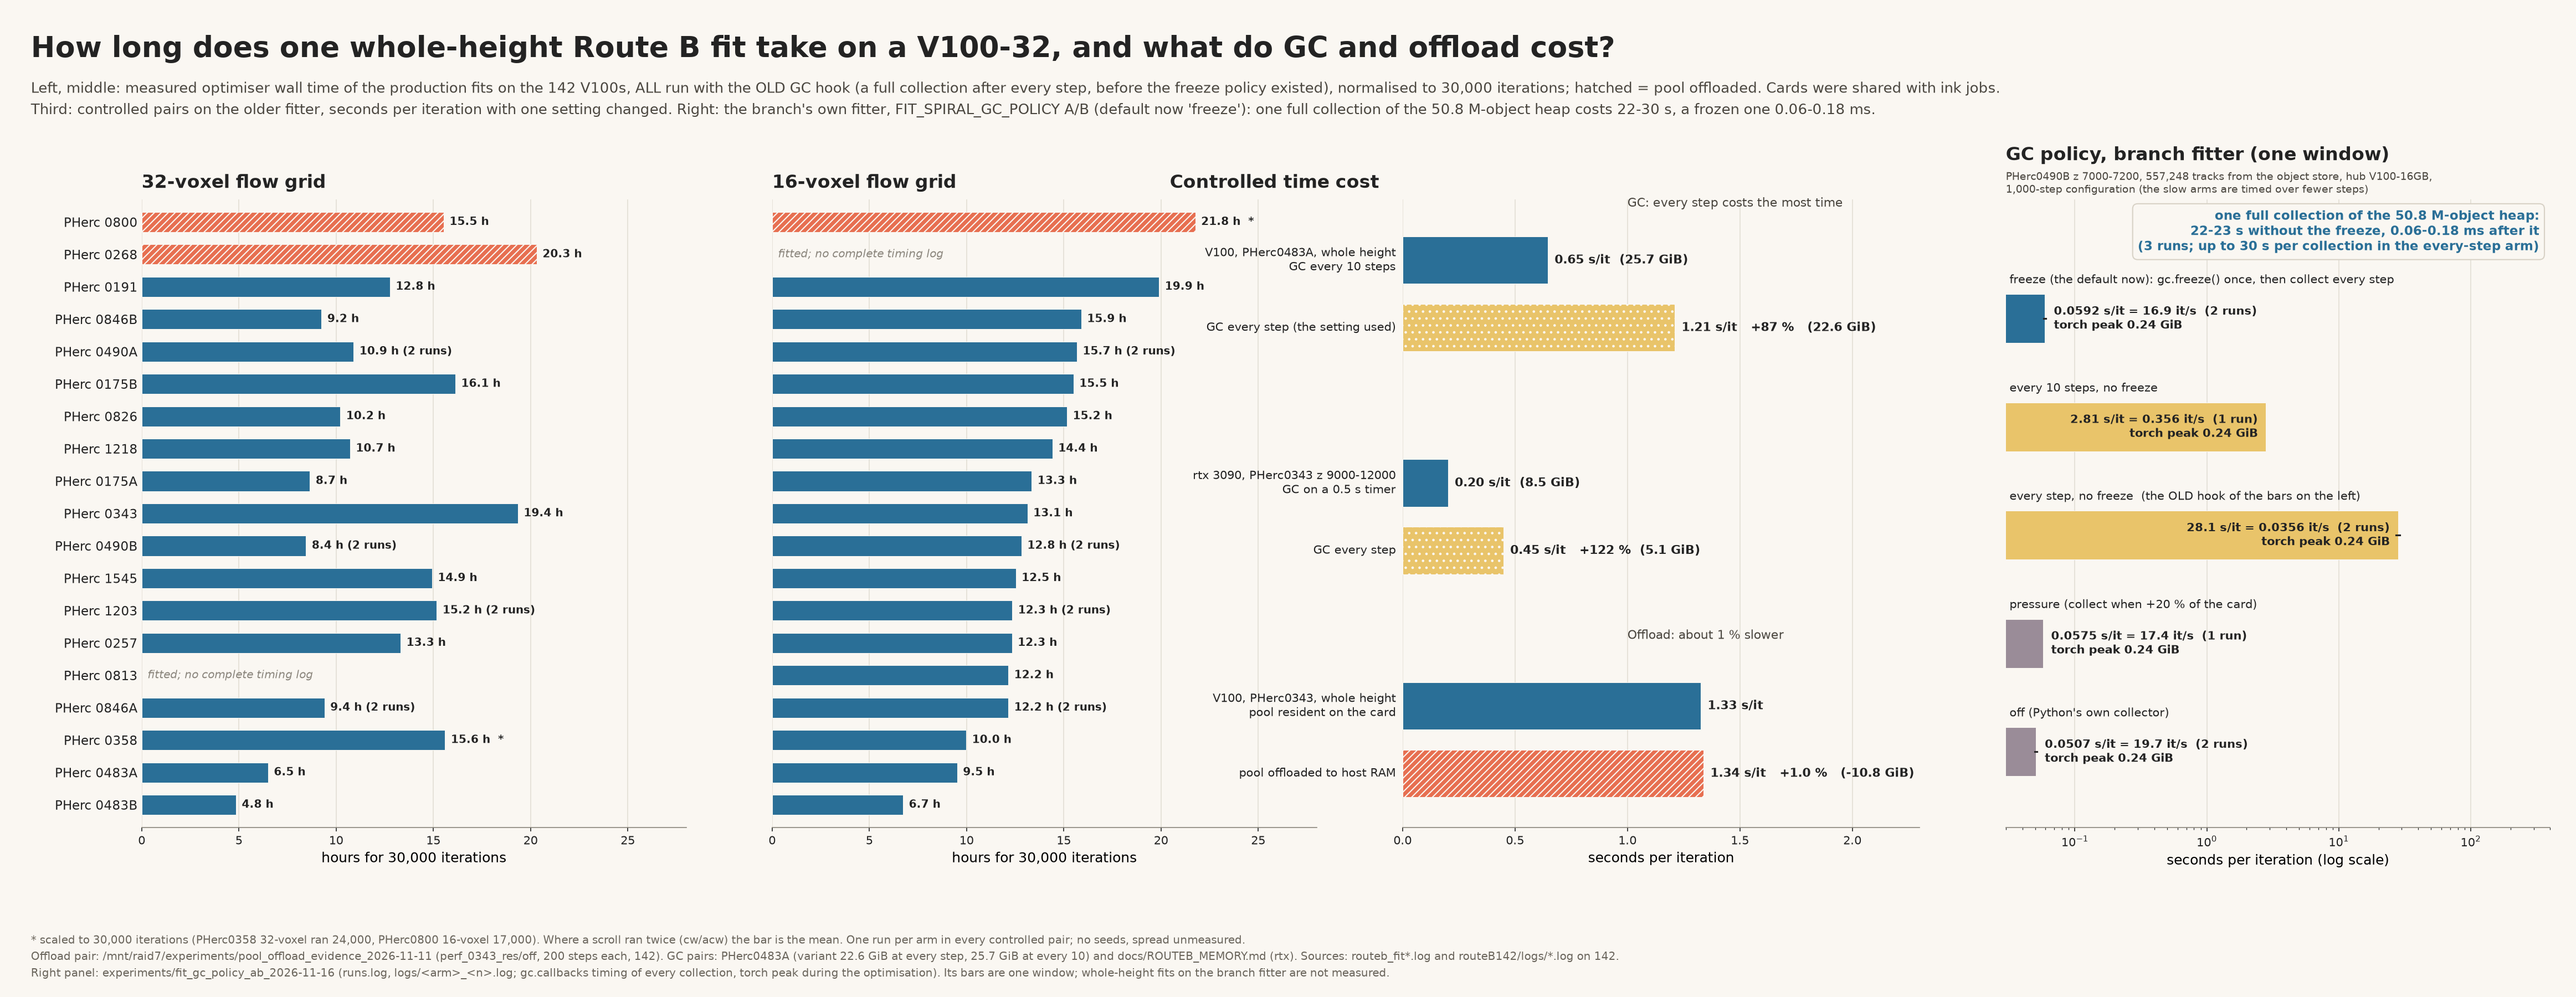
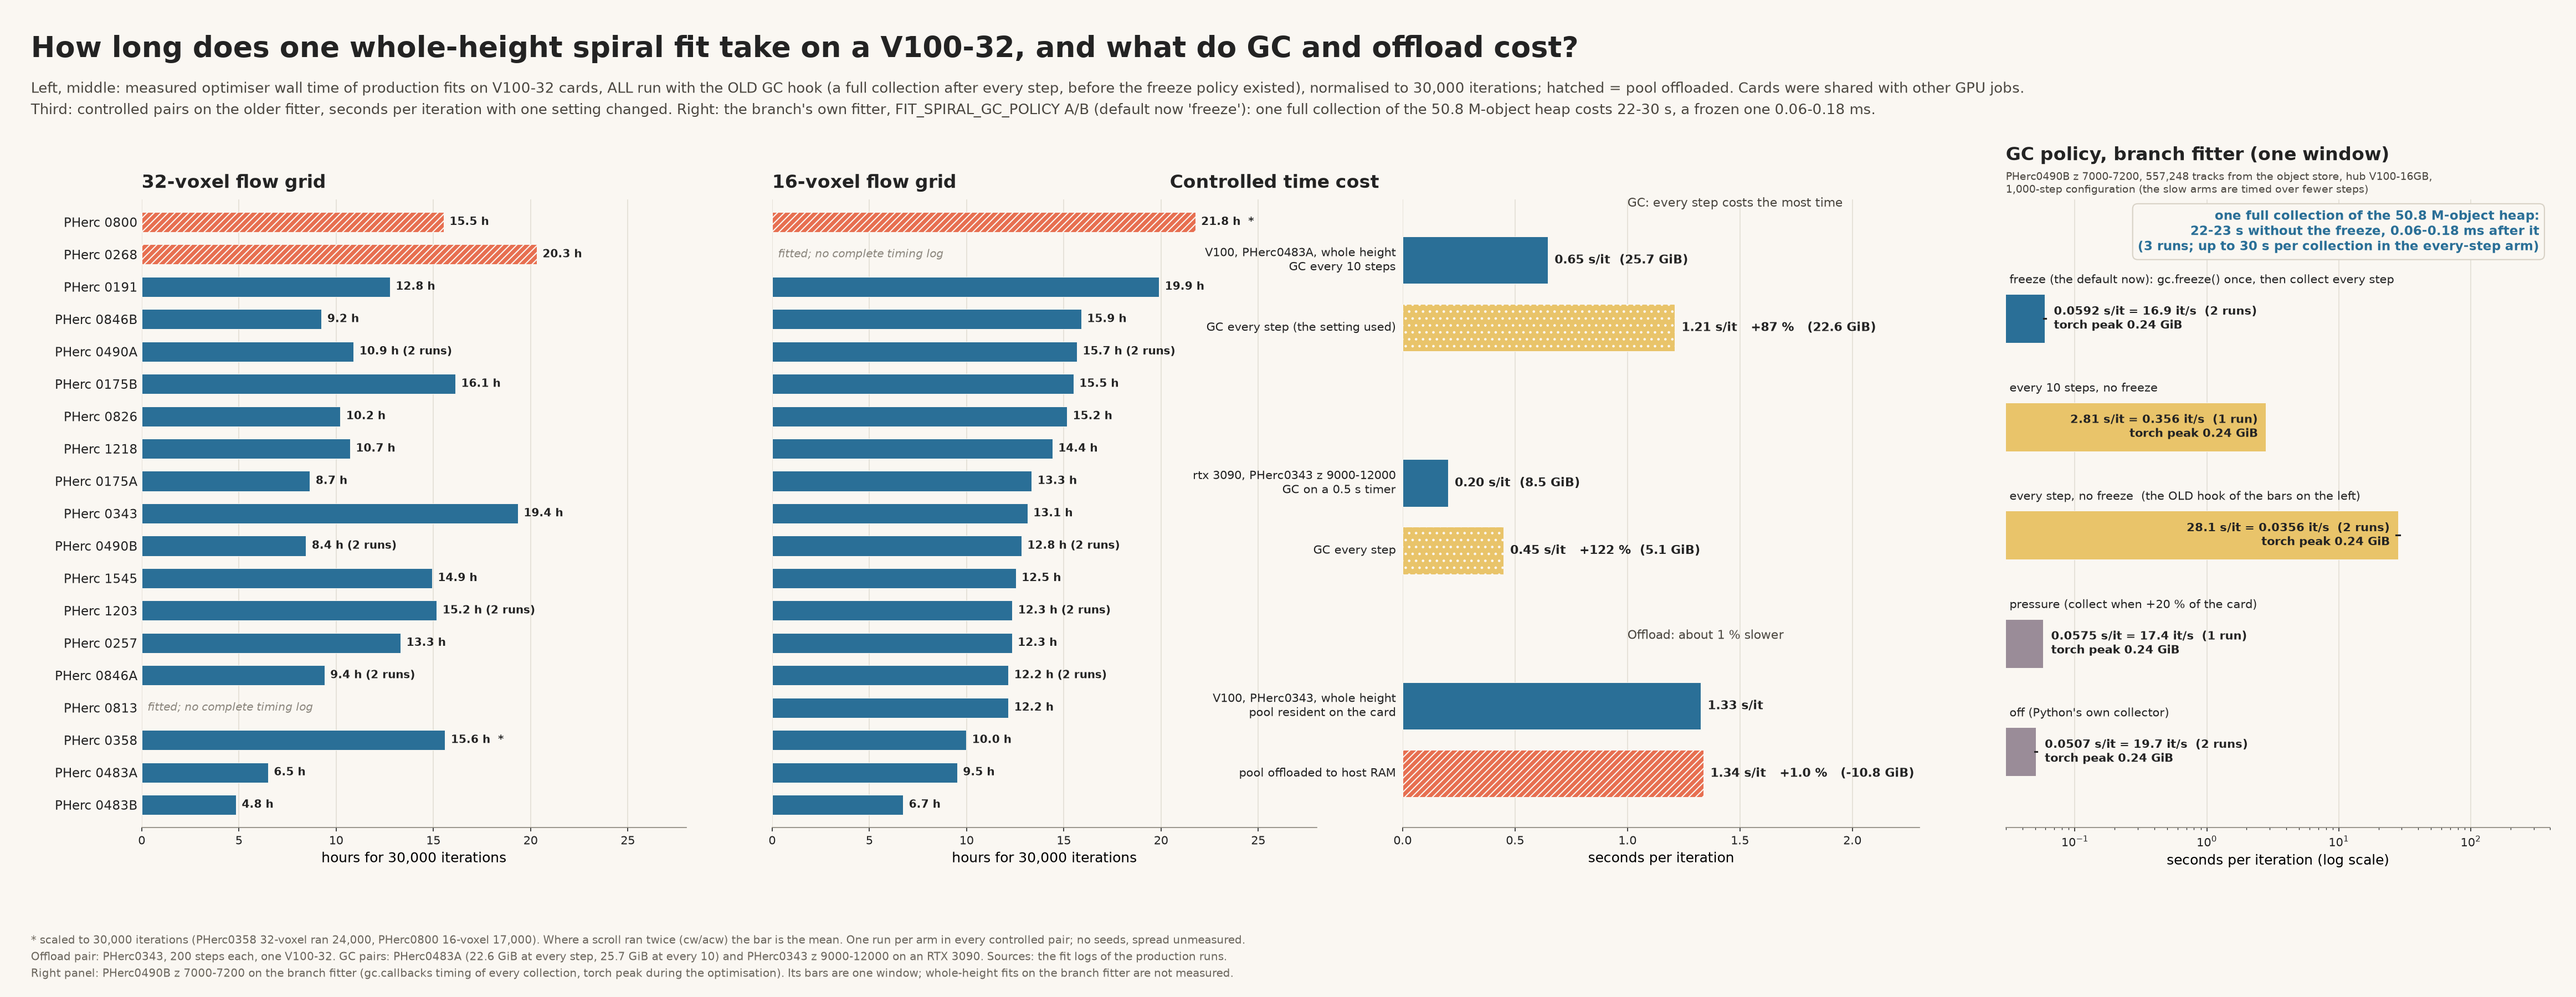
pool_offload: say 'spiral fit' instead of our internal pipeline name in chart titles and docstrings; drop internal paths and host numbers from the public time chart
Claude-Session: https://claude.ai/code/session_0138LanbQgDJ4o1uV3upw4Fh

diff --git a/spiral-fitting/pool_offload/make_vram_chart.py b/spiral-fitting/pool_offload/make_vram_chart.py
@@ -1,5 +1,5 @@
 #!/usr/bin/env python3
-"""VRAM per Route B spiral fit, per scroll, per flow-voxel grid, with GC and GC + pool offload (user 2026-11-13).
+"""VRAM per spiral fit, per scroll, per flow-voxel grid, with GC and GC + pool offload (user 2026-11-13).
 Model = rb_mem_table.py (this folder) (calibrated on PHerc0343 full height: 20.5 / 28.8 GiB predicted vs 20.1 / 28.2 measured, 32- / 16-voxel grid).
 Measured diamonds = measured.json (+ proof.json when the 16-voxel proof runs have a sampler CSV).
 usage: make_vram_chart.py OUTDIR   -> vram_chart.png, vram_table.csv, vram_table.md"""
@@ -31,7 +31,7 @@ BG, FG, GR = "#faf7f2", "#232323", "#8a857c"
 plt.rcParams.update({"font.family": "DejaVu Sans", "text.color": FG, "axes.edgecolor": GR, "axes.labelcolor": FG, "xtick.color": FG, "ytick.color": FG})
 fig = plt.figure(figsize=(21, 18), dpi=150, facecolor=BG)
 gs = fig.add_gridspec(1, 2, left=0.158, right=0.99, top=0.80, bottom=0.145, wspace=0.10)
-fig.text(0.015, 0.968, "How much GPU memory does one whole-height Route B spiral fit need?", fontsize=26, fontweight="bold", va="top")
+fig.text(0.015, 0.968, "How much GPU memory does one whole-height spiral fit need?", fontsize=26, fontweight="bold", va="top")
 fig.text(0.015, 0.935, "Per scroll and per flow-voxel grid, as predicted by the calibrated memory model: what the Python garbage-collection hook saves, and what moving the lasagna brick pool\n"
          "to pinned host RAM saves on top. Dashed red line = the 31.7 GiB of one V100-32; dotted = a 23.6 GiB RTX 3090. Diamonds = nvidia-smi measurements on real fits.", fontsize=13.5, va="top", color="#4a463f", linespacing=1.5)
 res_rows = []

diff --git a/spiral-fitting/pool_offload/rb_mem_table.py b/spiral-fitting/pool_offload/rb_mem_table.py
@@ -1,5 +1,5 @@
 #!/usr/bin/env python3
-"""Route B (fit_spiral) GPU-memory model and tables for docs/ROUTEB_MEMORY.md (sheetgeom study 2026-10-29).
+"""Spiral-fit (fit_spiral) GPU-memory model and tables, see ../POOL_OFFLOAD.md.
 
 peak_GiB(H, shell, r) = pool(H) + tracks(H) + flow_r * (H + 320)/1000 + N_GAP * gap(H, shell) + act_r * H/1000
   H      fit height in L0 slices (z_end - z_begin);  shell = shell_outer_winding_idx;  cap = shell + 14 (gap-expander capacity, arm142.sh)
@@ -11,7 +11,7 @@ peak_GiB(H, shell, r) = pool(H) + tracks(H) + flow_r * (H + 320)/1000 + N_GAP * 
   N_GAP  live copies WITH the periodic garbage-collection fix (measured 5-7 at z 16,300, shell 250; 11-17 at z 1,500); WITHOUT it the
          copies accumulate ~2 per iteration until Python's cyclic GC runs (up to ~200 measured), which is what OOMed every long fit
   act_r  transient per-step tensors (peak - live census) per 1000 slices (sample counts scale with H): measured 0.213 GiB (r=32, full 343)
-All coefficients are disclosed parameters (D33) with their measurement in docs/ROUTEB_MEMORY.md.  usage: rb_mem_table.py [--json OUT]"""
+All coefficients are disclosed parameters (D33) with their measurement in ../POOL_OFFLOAD.md.  usage: rb_mem_table.py [--json OUT]"""
 import json, math, sys
 
 FLOW = {8: 8 * 0.555, 16: 0.555, 32: 0.0698}
